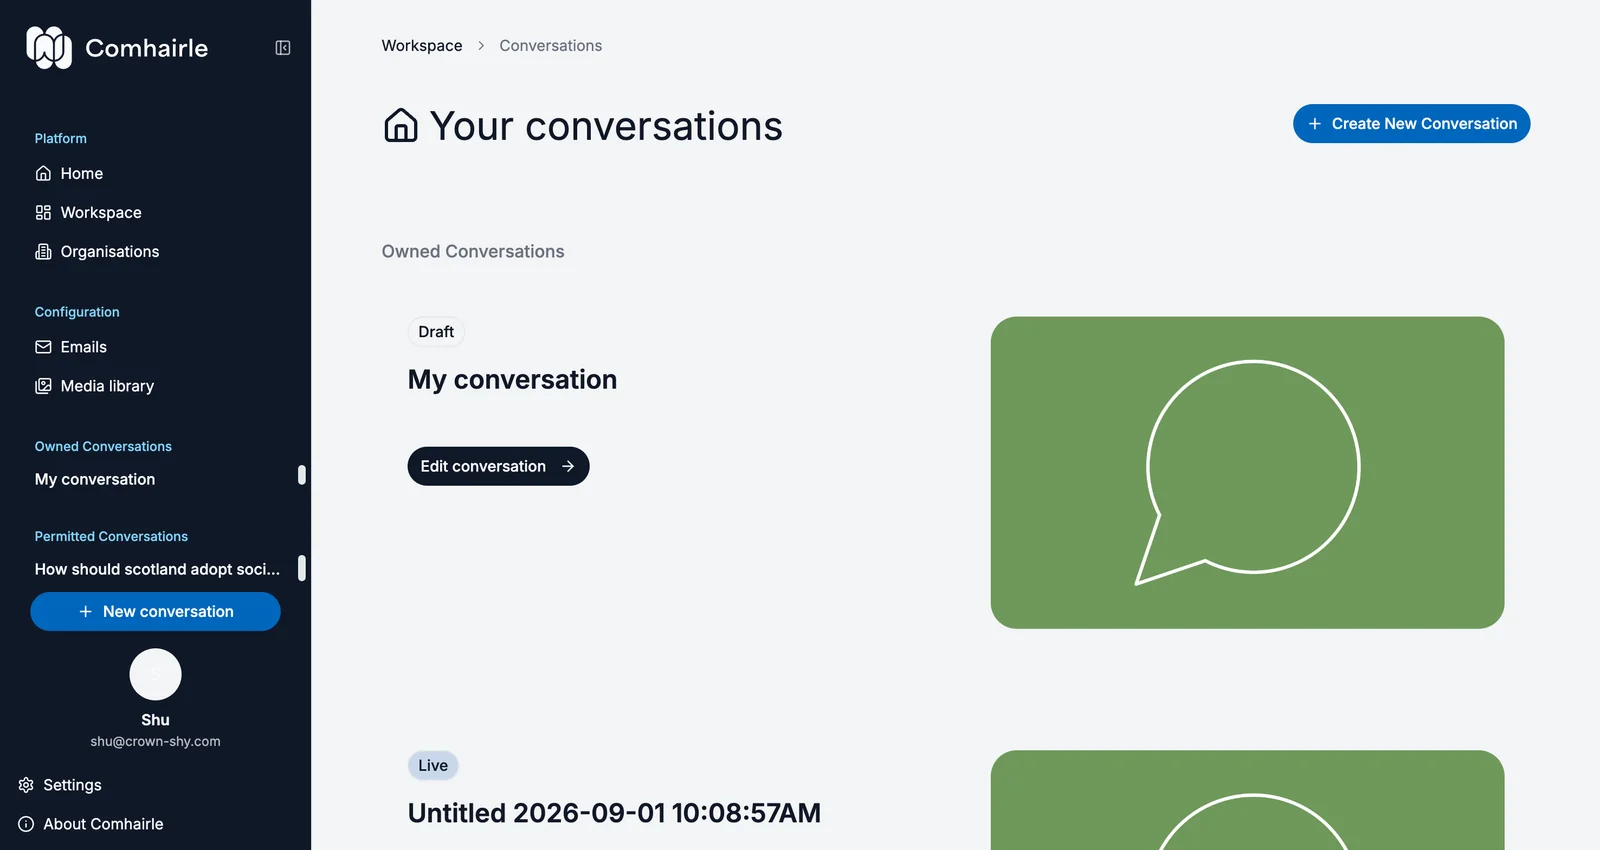
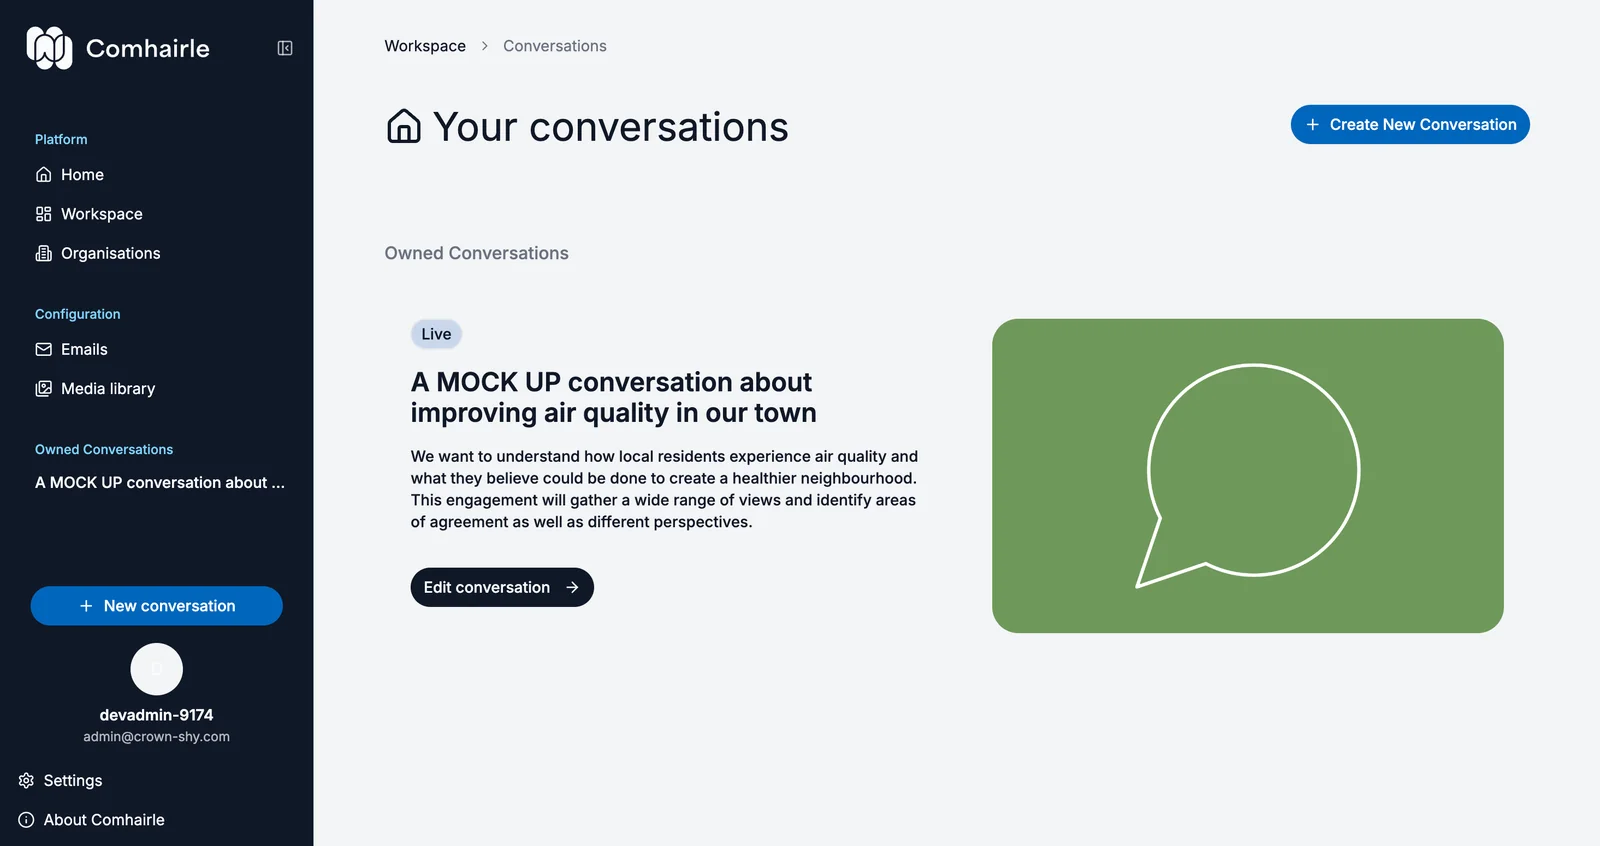
add images for pages in 'create conversation' category

diff --git a/ui/packages/comhairle/src/lib/admin_guides.ts b/ui/packages/comhairle/src/lib/admin_guides.ts
@@ -17,6 +17,13 @@
  */
 
 import environmentImage from './assets/admin-guide/environment.webp';
+import rolesAndPermissionsImage from './assets/admin-guide/roles-and-permissions.webp';
+import createAConversationImage from './assets/admin-guide/create-a-conversation.webp';
+import nameAConversationImage from './assets/admin-guide/name-a-conversation.webp';
+import addADescriptionImage from './assets/admin-guide/add-a-description.webp';
+import multilingualConversationImage from './assets/admin-guide/multilingual-conversation.webp';
+import addBannerImageImage from './assets/admin-guide/add-banner-image.webp';
+import previewImage from './assets/admin-guide/preview.webp';
 import logInImage from './assets/admin-guide/log-in.webp';
 import signUpImage from './assets/admin-guide/sign-up.webp';
 
@@ -124,6 +131,10 @@ export const ADMIN_GUIDES: Record<string, AdminGuide> = {
 				navLabel: 'Your role and permissions',
 				summary:
 					'What you can see and change depends on whether you created a Conversation or were added to it by someone else.',
+				image: {
+					src: rolesAndPermissionsImage,
+					alt: "The Team tab under Configure, where the owner enters a colleague's email address to grant them content editor access, above the list of the conversation's content editor users."
+				},
 				steps: [
 					'Conversations you create appear under **Owned Conversations**. As the owner, you can edit everything and decide who else has access.',
 					'To bring in a colleague, open the Conversation and go to **Configure** → **Team**. Find them by email address and grant them content editor permission.',
@@ -196,6 +207,10 @@ export const ADMIN_GUIDES: Record<string, AdminGuide> = {
 				navLabel: 'Create a conversation',
 				summary:
 					'Create a new conversation from scratch or start with a template that already contains a set of steps.',
+				image: {
+					src: createAConversationImage,
+					alt: "The Choose a template window, listing workflow templates such as Informed-participants survey, Understand opinion groups and Citizen workshop, with a preview of the selected template's steps."
+				},
 				steps: [
 					'Click **+ New Conversation**.',
 					'Choose **Start from blank** to create a conversation from scratch, or **Choose from template** to start with a ready-made set of steps.',
@@ -213,6 +228,10 @@ export const ADMIN_GUIDES: Record<string, AdminGuide> = {
 				navLabel: 'Name a conversation',
 				summary:
 					'Give your conversation a clear name that colleagues and participants can easily recognise.',
+				image: {
+					src: nameAConversationImage,
+					alt: "The Details tab under Configure, with the conversation's Title field highlighted."
+				},
 				steps: [
 					'Go to **Configure** → **Details**.',
 					'Replace the temporary **Title** with a clear, specific name.',
@@ -229,6 +248,10 @@ export const ADMIN_GUIDES: Record<string, AdminGuide> = {
 				navLabel: 'Add a description',
 				summary:
 					'Describe what the conversation is about, why you’re asking for input, and what might happen as a result.',
+				image: {
+					src: addADescriptionImage,
+					alt: 'The Details tab under Configure, showing the Short description and Description fields filled in.'
+				},
 				steps: [
 					'Go to **Configure** → **Details**.',
 					'In **Description**, explain the topic, why you’re asking for input, and what might happen as a result.'
@@ -246,6 +269,10 @@ export const ADMIN_GUIDES: Record<string, AdminGuide> = {
 				navLabel: 'Setup a multilingual conversation',
 				summary:
 					'Add other languages to your conversation so participants can read and take part in their preferred language.',
+				image: {
+					src: multilingualConversationImage,
+					alt: 'Language options on the Details tab, with English as the primary language and Gaelic added as a supported language. Translated fields show a Gaelic Draft label.'
+				},
 				steps: [
 					'Go to **Configure** → **Details**.',
 					'Under **Language options**, add the languages you want your conversation to support.',
@@ -264,6 +291,10 @@ export const ADMIN_GUIDES: Record<string, AdminGuide> = {
 				navLabel: 'Add a banner image',
 				summary:
 					'Add a banner image to help participants recognise your conversation. It appears alongside the description on the conversation landing and invitation pages.',
+				image: {
+					src: addBannerImageImage,
+					alt: 'The upload window for a banner image, with an area to drag and drop a file, Filename and Alt fields, and an Upload button.'
+				},
 				steps: [
 					'Go to **Configure** → **Details** and find **Banner image**.',
 					'Select **Upload** to add a new image from your computer, or **Media library** to choose an image you’ve already uploaded.',
@@ -281,6 +312,10 @@ export const ADMIN_GUIDES: Record<string, AdminGuide> = {
 				navLabel: 'Preview your page',
 				summary:
 					'See how your conversation will appear to participants without launching it.',
+				image: {
+					src: previewImage,
+					alt: 'A preview of the conversation landing page, marked This is a preview of the conversation, showing the title, short description and banner image.'
+				},
 				steps: [
 					'Click **Preview** in the top-right corner. The preview opens in a new tab.',
 					'Check the **Title**, **Short description**, **Description**, and **Banner image** on the landing page.',
